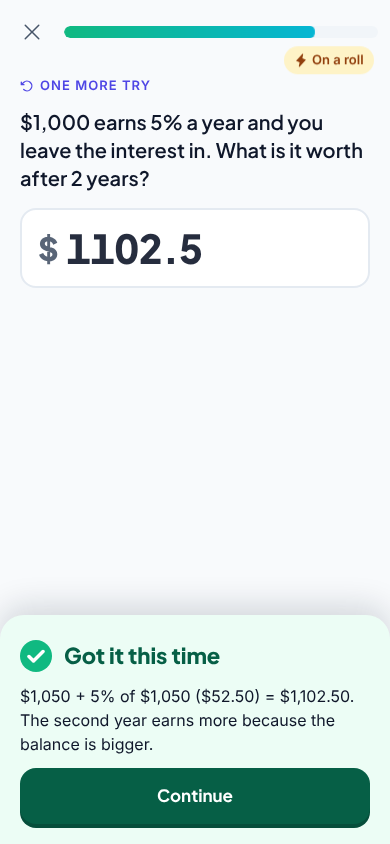
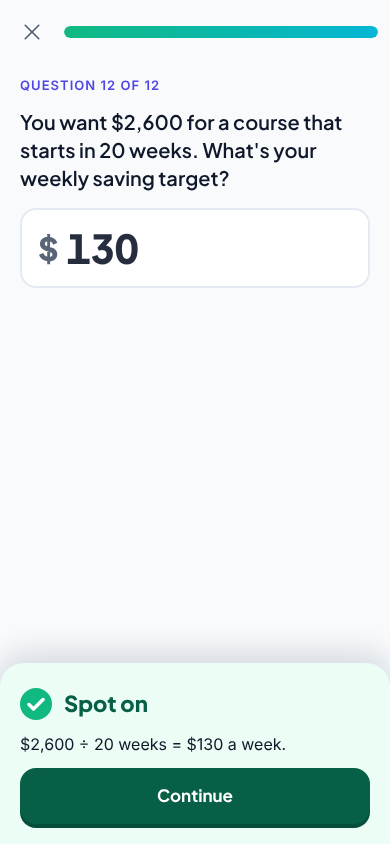
Persona round 1: scores, plans, findings; fixes for F1-F9 (pay cycles, needs>50%, life-stage examples, retry order, honest copy, what's-next note, onboarding chips)
Claude-Session: https://claude.ai/code/session_01GBYcwNNV3dNhspR98EHqQR

diff --git a/tests/unit/content.test.ts b/tests/unit/content.test.ts
@@ -51,3 +51,23 @@ describe('ics reminder input safety', () => {
     expect(ics).toContain('SUMMARY:After my morning coffee\\, I do my Tally lesson');
   });
 });
+
+import { readFileSync } from 'node:fs';
+describe('examples reflect more than one life stage', () => {
+  const all = [1, 2, 3, 4, 5, 6, 7, 8].map((i) => readFileSync(`content/unit1/1.${i}.json`, 'utf8')).join('\n');
+  it.each([
+    ['a teenager on pocket money or a first job', /pocket money|, 16,|Under 18/],
+    ['a uni student', /uni student|At uni|HECS-HELP/],
+    ['a nurse or shift worker', /nurse|Shifts vary/],
+    ['a parent', /single parent|kids' costs/],
+    ['a home deposit goal', /home deposit/],
+  ])('has %s', (_label, re) => {
+    expect(all).toMatch(re as RegExp);
+  });
+  it('teaches weekly and fortnightly pay to a month with 52 and 26, not x4', () => {
+    const l = JSON.parse(readFileSync('content/unit1/1.4.json', 'utf8'));
+    const body = JSON.stringify(l.screens);
+    expect(body).toMatch(/Multiply weekly pay by 52, or fortnightly pay by 26, then divide by 12/);
+    expect(body).toMatch(/trim wants first and still save something/);
+  });
+});

diff --git a/src/screens/Onboarding.tsx b/src/screens/Onboarding.tsx
@@ -27,7 +27,7 @@ const GOALS = [
   { id: 'invest', icon: 'ChartLineUp', title: 'Start investing' },
   { id: 'pro', icon: 'Buildings', title: 'Go deeper (pro finance)' },
 ];
-const CUES = ['my morning coffee', 'I sit on the train', 'lunch', 'I brush my teeth tonight'];
+const CUES = ['my morning coffee', 'I get on the bus or train', 'lunch', 'I get home', 'the kids are in bed', 'I brush my teeth tonight'];
 
 export function Onboarding() {
   const [step, setStep] = useState(0);
@@ -82,7 +82,7 @@ export function Onboarding() {
           </div>
           {checked ? (
             <div className={`inline-fb ${isCorrect(FIRST, a) ? 'fb-right' : 'fb-wrong'}`} role="status">
-              <strong>{isCorrect(FIRST, a) ? 'Correct! +5 XP' : 'Not quite — less'}</strong>
+              <strong>{isCorrect(FIRST, a) ? 'Correct! +5 XP' : 'Not quite: it buys less'}</strong>
               <p>{FIRST.explanation}</p>
             </div>
           ) : null}

diff --git a/docs/persona-review.md b/docs/persona-review.md
@@ -1,0 +1,194 @@
+# Persona review
+
+Five learners (Emma 16, Jake 20, Olivia 24, Liam 28, Sarah 35) play Unit 1 of Tally end to end and score it on `docs/review-scorecard.md`. Rounds are logged newest last.
+
+**How a round is played.** `scripts/persona-playtest.py` (built on the `webapp-testing` skill) drives the **built** app at 390×844 from **cleared storage**, with CPU throttled 4× and a slow-4G network (a mid-range phone), on a faked clock across several days. Each persona has their own onboarding choices (goal, level, daily target, habit cue and time, theme), their own mistakes, and their own life: missed days (streak repair), an interrupted lesson, an offline reload, and a failed-then-passed unit check. The harness prints every screen's text to a transcript and takes screenshots; every console error, page error and failed request is recorded. The persona's plan below is written from what the transcript taught, then the app is scored.
+
+Evidence lives in `docs/persona-evidence/round-N/` (screenshots plus a `<persona>.json` of measured facts). Transcripts are regenerated by the harness (`test-results/persona/<persona>.md`, not committed).
+
+Severity: **blocker** (progress lost, blank screen, flow impossible) / **major** (a persona can't do something the lesson promises, or is misled) / **minor**.
+
+---
+
+## Round 1 (baseline: the app as it stood after the validation passes)
+
+Built from commit `6ed0d74` (Unit 1 complete, validation passes 1 and 2). Played 24–29 Nov 2026 (fake clock), cleared storage each time.
+
+### Scores
+
+| Category (max) | Emma 16 | Jake 20 | Olivia 24 | Liam 28 | Sarah 35 |
+| --- | --- | --- | --- | --- | --- |
+| Educational value (20) | 13 | 14 | 15 | 14 | 14 |
+| Content accuracy & quality (15) | 11 | 12 | 13 | 12 | 12 |
+| UX & navigation (15) | 12 | 12 | 12 | 12 | 12 |
+| Functionality & reliability (15) | 14 | 14 | 14 | 14 | 14 |
+| Engagement & interactivity (10) | 7 | 8 | 8 | 8 | 8 |
+| Accessibility & inclusivity (10) | 8 | 8 | 8 | 8 | 7 |
+| Visual design (5) | 4 | 4 | 4 | 4 | 4 |
+| Performance (5) | 4 | 4 | 4 | 4 | 4 |
+| Privacy & security (5) | 5 | 5 | 5 | 5 | 5 |
+| **Total (100)** | **78** | **81** | **83** | **81** | **80** |
+| Band | Good | Excellent | Excellent | Excellent | Excellent |
+
+Result: **fails the bar.** Educational value is under 16 for every persona, and Emma is under 80 overall. The totals look fine mainly because the app is stable and good-looking; the gap is in what each persona could do with their own money.
+
+### Measured facts (from `docs/persona-evidence/round-1/*.json`)
+
+| | Emma | Jake | Olivia | Liam | Sarah |
+| --- | --- | --- | --- | --- | --- |
+| Finished Unit 1 + unit check | yes (2 attempts) | yes (2) | yes (2) | yes (2) | yes (2) |
+| Unit 2 unlocked at the end | yes | yes | yes | yes | yes |
+| XP / streak at the end | 656 / 5 | 712 / 6 | 734 / 6 | 710 / 4 | 715 / 7 (1 freeze earned) |
+| Wrong answers (each retried) | 45 | 30 | 25 | 20 | 36 |
+| First screen, cold, throttled 4× CPU + slow 4G | 1.64 s | 1.64 s | 1.71 s | 1.62 s | 1.62 s |
+| Screen change, median / p95 | 112 / 161 ms | 104 / 161 ms | 114 / 151 ms | 107 / 144 ms | 113 / 167 ms |
+| Reminder (.ics) downloaded, daily, right time and cue | yes | yes | declined | yes | yes |
+| Progress after every reload | kept | kept | kept | kept | kept |
+| Offline reload | n/a | ok (day 4) | n/a | ok (day 2) | n/a |
+| App errors in console | 0 | 0 | 0 | 0 | 0 |
+| Console "problems" logged | 2 | 2 | 1 | 1 | 1 |
+
+The logged "problems" are all `favicon.svg net::ERR_ABORTED`: the harness reloads the page while the previous page's favicon request is still in flight, which cancels it. That is harness noise, not an app fault (the validation sweep proves it by waiting for network idle first). The harness now waits for the network to settle before each reload and filters this one case.
+
+### Emma, 16: pocket money and a weekend café job
+
+Played: no coffee habit, so typed "I get home from school", 16:30, 5-minute goal; got the first question wrong on purpose; guessed on numbers; many mistakes (45).
+
+**Strengths**
+- The first screen asks a real question before anything else (`emma-welcome.png`, first question screen). She liked that being wrong cost nothing: "Not quite … Your $1,000 is still $1,000, but things cost about 5% more".
+- Feedback after every answer says why. Her wrong "Priya's $15 × 52" answer returned with "$15 × 52 = $780 a year. Seeing the yearly total makes it easier to decide if it's worth it."
+- A hint opens on request ("Multiply the weekly amount by 52."), and a missed question comes back in the same lesson ("ONE MORE TRY").
+- The calendar reminder downloaded with her words: `After I get home from school, I do my Tally lesson`, daily, 16:30.
+
+**Weaknesses**
+- Almost nothing is her life. The examples are an adult employee: "Should I keep my savings in a bank or pay down my car loan?" (lesson 1.1 try-it), super, HECS-HELP, a $60,000 payslip, rent. There is no pocket money and no first job.
+- The apply screens assume a payslip and a banking app: "Open your last payslip or banking app" (1.4). She has neither.
+- She budgets weekly ($40 + $90 a fortnight) but the only conversions taught are monthly; she can't tell whether her fortnightly café pay is "$180 a month" or something else. (F1)
+- The habit chips are for commuters ("I sit on the train", "my morning coffee"). (F9)
+- "Not quite — less" reads as a typo on her very first screen. (F9)
+
+**Recommendations**: add teen and student examples; say what to do with irregular casual pay; a short "your first job and tax" idea belongs in Unit 4 (noted, not marked down).
+
+**Real-life plan (from what the app taught)**
+- Income per week: $40 pocket money + $90 ÷ 2 per week = **$85** (she can do per-week maths because Omar's fortnightly example showed the method works for any pay cycle).
+- Budget (lesson 1.4, but not 50/30/20, because her parents cover housing): needs $25 (phone $12, bus $8, school $5) · wants $30 · savings $30 = **$85**. She noticed that her savings share (35%) is well above the 20% rule and that's fine because needs are small.
+- Goal (1.8): $680 for a laptop in 40 weeks → $680 ÷ 40 = **$17 a week**, so $30 a week gets there in **23 weeks** ($680 ÷ $30 = 22.7).
+- Emergency fund (1.6): needs $25 a week × 52 ÷ 12 = $108 a month essentials; 1 month = **$108**.
+- This week: write down this week's $85 and set a $30 transfer after the café shift.
+- **Steps she could not do:** the $108 monthly essentials need weekly → monthly (×52 ÷ 12), which no lesson taught (she tried ×4 = $100, about 8% low, and couldn't tell which was right). Should be taught in **1.4**. She could not see whether casual pay is "take-home" (tax-free threshold: Unit 4).
+
+### Jake, 20: uni student, shared house at $240 a week, casual hospitality
+
+Played: "I finish my first lecture", 10:15, "I know the basics", 10-minute goal; missed Thursday and came back Friday; reloaded offline on day 4.
+
+**Strengths**
+- The forgiving streak worked as designed: Friday's Home said "Repair your streak today … You missed yesterday. Finish 2 sessions today and your 2-day streak carries on."; he did a review plus two lessons and the streak was 4 on Saturday.
+- The unit check gave a useful next step when he failed: it scored him "50% — nearly there", listed the weak lessons (1.1, 1.2, 1.3, 1.7) and offered "Try the check again" (`jake-check-retry.png`); he passed on the second try.
+- Offline reload worked: Home loaded and a lesson ran with no network (`jake` offline day).
+- Net worth with HECS-HELP as a liability (1.2) felt like his life: "Tap the liability on Ben's list … HECS-HELP debt $18,500."
+
+**Weaknesses**
+- Rent is weekly. Every worked example is monthly, and weekly → monthly is never taught (the only pay-cycle example is one fortnightly 20% question). (F1)
+- His needs are 70% of his pay. The lesson says "in a pricey rental market, needs often run higher" but not what to do about it. (F2)
+- Casual shifts vary week to week; irregular pay is only mentioned for an emergency fund (Ravi, freelancer).
+- "I know the basics" promises nothing now (fixed copy in validation) but still just shows the same Unit 1; no way to test out. (F10, won't-fix)
+
+**Recommendations**: a short note on varying pay; a student-style budget example; HECS-HELP repayment belongs to Unit 3.
+
+**Real-life plan (from what the app taught)**
+- Take-home **$560 a week**. Needs (1.4 list): rent $240 + groceries $85 + transport $30 + phone $15 + study costs $25 = **$395 (70.5%)**. Wants $80. Savings **$85** (15%).
+- He used the zero-based method (every dollar a job) because 50/30/20 doesn't fit when rent is this big: $560 = $395 + $80 + $85. ✔
+- Emergency fund (1.6): essentials $395 a week × 52 ÷ 12 = $1,711.67 a month, so 3 months = **$5,135**. At $50 a week that is 103 weeks, so his first milestone is **one month ($1,712)**, about 34 weeks.
+- Goal (1.8): laptop $1,400 in 28 weeks = **$50 a week**; he can't afford it alongside the emergency fund yet, so he picks the fund first (from lesson 1.8 "starter buffer first").
+- This week: move $50 on payday into a separate savings account.
+- **Steps he could not do:** converting $395 a week to a month (without ×52 ÷ 12 he used ×4 = $1,580, so the 3-month target came out at $4,740: **$395 short**); knowing what to do when needs > 50%; budgeting casual pay. Should be taught in **1.4**.
+
+### Olivia, 24: graduate nurse, rotating shifts, $72,000
+
+Played: no habit anchor (after a late shift, 22:00), dark mode, declined the calendar reminder (shift times change), interrupted one lesson on a night shift.
+
+**Strengths**
+- The payslip lesson is the closest to her life: "Worked example: Lena's payslip … Tax withheld (PAYG) −$802.00 … Employer super (to fund) $600.00 … Net pay $4,198.00", and the tap-the-line question: "Tap the line that belongs to Lena but never reaches her bank account."
+- Dark mode was consistent on every screen (`olivia-recap.png`), and she could decline the reminder without being nagged.
+- Leaving mid-lesson asks first ("Take a break? … Keep going / Leave for now") and saved progress was untouched.
+
+**Weaknesses**
+- The leave dialog says "You can pick this up again any time", but the lesson restarts from screen 1, so "pick up" over-promises. (F8)
+- Her payslip has shift allowances and penalty rates the example doesn't show, and she can't check her own tax or super here (Unit 4 and Unit 5: noted, not marked down).
+- Rotating shifts mean a fixed "after ___, I do my lesson" doesn't fit; the app has no "flexible" option. (recommendation)
+
+**Recommendations**: a "my payslip has more lines" note in Unit 4.2; shift workers' variable pay; an "any time" habit option.
+
+**Real-life plan (from what the app taught)**
+- Take-home read from her own payslip: **$2,250 a fortnight**. Needs $1,250 (rent $800, groceries $200, car $140, phone and streaming $50, uniform and health $60) = 55.6%; wants $450 (20%); savings **$550** (24.4%).
+- Emergency fund: essentials **$1,250 a fortnight × 26 ÷ 12 = $2,708 a month**, 3 months = **$8,125** (about 30 weeks of saving $550 a fortnight).
+- Goal: a $4,200 holiday in 52 weeks = **$81 a week** (about $162 a fortnight).
+- This week: check her last payslip's super line against 12% (she can only check that the line exists; the 12% rule is Unit 5).
+- **Steps she could not do:** fortnight → month (she used ×2 = $2,500 a month, so a 3-month fund of **$7,500, which is $625 short**). Should be taught in **1.4**. Reading her payslip's extra lines: **4.2**.
+
+### Liam, 28: software tester, $95,000, $18,000 saved, $9,000 car loan, first home in 3 years
+
+Played: "I sit down on the train", 07:40, "Start investing", "I know the basics", 15-minute goal, three lessons a day; offline reload on day 2.
+
+**Strengths**
+- The offset account lesson (1.7) is exactly his problem: "Loan $500,000 − offset $30,000 = interest charged on $470,000 … Interest saved ≈ $1,800 a year".
+- The Financial Claims Scheme point reassured him about $18,000 in savings: "Deposits … protected up to $250,000 per account holder, per bank."
+- The recap stat tiles and the "You learned" bullets gave a clear end to each lesson (`liam-recap.png`).
+
+**Weaknesses**
+- The SMART-goal examples are a holiday, an e-bike and "Tom moving out"; none is a home deposit, the one goal he has. (F3)
+- His car loan sits in "savings and extra debt repayments", but there is no help deciding between paying it down and saving a deposit (that is Unit 3 and Unit 6: recommendation).
+- Weekly vs monthly again: a deposit goal in weeks needs a monthly transfer figure. (F1)
+
+**Recommendations**: a deposit example in 1.8; LMI, the First Home Guarantee and Queensland duty belong to Unit 8 (the app says "lessons coming soon" honestly).
+
+**Real-life plan (from what the app taught)**
+- Take-home $5,900 a month (payslip). Needs $3,400 (rent share $1,900, groceries $500, transport $350, car loan $420, bills $230) = 57.6%; wants $1,300 (22%); savings and debt $1,200 (20.3%).
+- Emergency fund: 3 × $3,400 = **$10,200**, kept in a separate savings account. That leaves **$7,800** of his $18,000 for the deposit.
+- Deposit goal: **$62,400 in 3 years (156 weeks)** → ($62,400 − $7,800) ÷ 156 = **$350 a week** (about $1,517 a month).
+- Check: $1,200 a month saved is less than $1,517, so he shortens the plan: trim wants by about $317 a month, or extend the date. This used 1.4's "trim wants first" idea, which the baseline app did not state. (F2)
+- **Steps he could not do:** weekly target → monthly transfer (×52 ÷ 12, **1.4**); what a deposit should be or whether to pay the car loan first (Unit 3 and Unit 8).
+
+### Sarah, 35: single parent of two, $62,000 part-time plus child support, rent $2,000 a month, $2,400 card debt
+
+Played: "the kids are in bed", 20:30, "Stop worrying about debt", 5-minute goal; missed two evenings; interrupted a lesson.
+
+**Strengths**
+- No guilt anywhere. When she missed a day, Home said "Repair your streak today … You missed yesterday", never anything like "your streak is dying" (Sarah's Home on her second lesson day). A 5-minute goal fits real life.
+- The emergency fund lesson names the exact idea she needs: "Size your emergency fund using your essential expenses, not everything you spend", and "First milestone: $1,000, so small shocks are covered sooner".
+- Review cards came back at spaced gaps and the 2-minute practice counted for her streak on a hard evening.
+
+**Weaknesses**
+- Nothing in the lessons is a household with children: no kids' costs, no child support, no single income. (F3)
+- Her needs are 82% of her pay. The 50/30/20 split can't apply and the lesson doesn't say how to adapt. (F2)
+- The emergency fund target (3 months) is $10,530 for her, with no guidance on a realistic first step beyond one example line. (F1/F2)
+- "Finish 2 sessions today" is app-speak: she wondered if one lesson plus one review counts. (F6)
+- The apply screen says "Planned — we'll ask how it went", but nothing ever asks. (F5)
+
+**Recommendations**: a parent example; debt vs savings priority (Unit 3); a "tight budget" path for the emergency fund.
+
+**Real-life plan (from what the app taught)**
+- Take-home **$4,300 a month**. Needs $3,510 (rent $2,000, groceries $620, kids' costs and school $260, transport $180, bills $300, phone and other $150) = **81.6%**. Left $790: wants $250 and **$540** for savings and card.
+- Emergency fund: 3 months = **$10,530** (not achievable soon) → first milestone **one month ($3,510)**; $300 a month = **$69 a week** automatic transfer to a separate savings account.
+- Card: the $240 a month left goes on the $2,400 card (the app says extra debt repayment belongs in the 20% bucket).
+- This week: write down the $3,510 of essentials and open a separate savings account.
+- **Steps she could not do:** whether the card or the buffer comes first (Unit 3 will teach good and bad debt and paying off debt); adapting 50/30/20 when needs are 80%+ (**1.4**).
+
+### Findings
+
+| # | Sev | Personas | Where | Evidence | Status |
+| --- | --- | --- | --- | --- | --- |
+| F1 | major | all five | Lesson 1.4 | Weekly and fortnightly pay to monthly is never taught. Jake's 3-month fund came out $395 short (×4), Olivia's $625 short (×2); Emma and Liam couldn't convert at all. | **Fixed.** New teach screen "Paid weekly or fortnightly?" (×52 or ×26, then ÷ 12), guided question `u1l4-g-4` (Jake's $420 a week), review variant `u1l4-r-4`. Tests: `usability.spec.ts › the pay-cycle question teaches weekly pay x 52 / 12, not x 4`; `content.test.ts › teaches weekly and fortnightly pay to a month…` |
+| F2 | major | Jake, Liam, Sarah (Emma) | Lesson 1.4 | Needs of 70–82% of pay; the lesson says "needs often run higher" but not what to do. | **Fixed.** Core screen now says "If rent pushes needs to 60% or more, trim wants first and still save something." Test: `content.test.ts › … trim wants first and still save something` |
+| F3 | major | all five | Whole of Unit 1 | Examples are single adult employees; no teen, student, parent, nurse or home-deposit example; apply screens assume a payslip ("Open your last payslip or banking app"). | **Fixed.** Examples now include a nurse (Aisha, Lena), a uni student (Ben, Jake), a single parent (Maya, kids' costs), a 16-year-old saver (Zac, pocket money), a couple saving a $39,000 deposit; apply screens speak to pocket money, HECS-HELP, shifts, kids' costs. Test: `content.test.ts › examples reflect more than one life stage` (5 cases). |
+| F4 | major | all five (every lesson with a miss) | Lesson session | A missed question was re-queued after the "Your money" screen, so lessons ended on a re-asked question instead of apply then recap (`emma.md` lesson 1.1 screen 17 "ONE MORE TRY" after "YOUR MONEY"). | **Fixed.** `retryPosition` keeps retries before the apply screen. Tests: `session.test.ts` (4; two fail without the fix), `usability.spec.ts › a missed question comes back before the "Your money" screen…` |
+| F5 | minor | all five | Apply screen | "Planned — we'll ask how it went": nothing ever asks. | **Fixed.** "Saved. Tick it off in Profile once you've done it". Test: `usability.spec.ts › apply screen promises only what the app does` |
+| F6 | minor | Jake, Sarah, Liam | Home streak repair | "Finish 2 sessions today": jargon. | **Fixed.** "Do 2 lessons or reviews today …" |
+| F7 | minor | all five | Home after Unit 1 | After the unit, Home offered only "2-minute practice"; "what now?" unclear. | **Fixed.** `all-done` note: "You've done every lesson that's ready. More units are being written; until then, reviews keep what you learned fresh." Test: `usability.spec.ts › when every ready lesson is done, Home says so…` |
+| F8 | minor | Olivia, Sarah | Leave dialog | "You can pick this up again any time": it restarts the lesson. | **Fixed.** "You can start it again any time. Answers from this round won't be saved." |
+| F9 | minor | Emma, Sarah | Onboarding | Habit chips fit commuters only; "Not quite — less". | **Fixed.** Chips add "I get home" and "the kids are in bed"; "Not quite: it buys less". |
+| F10 | minor | Jake, Liam | Onboarding level | "I know the basics" has no placement check. | **Won't fix**: a placement test is a new feature (out of scope). The copy no longer promises one. |
+| F11 | minor | Olivia, Sarah | Mid-lesson | Leaving restarts a lesson from screen 1. | **Won't fix**: resuming is a new feature; lessons are about 5 minutes and leaving asks first. Saved progress is unaffected. |
+| F12 | minor | Olivia, Liam, Sarah, Emma | Topics | Tax on casual pay, payslip allowances, super checks, car loan vs deposit, investing, home loans. | **Recommendation**, not marked down: they belong to Units 3, 4, 5, 6 and 8, and Home says honestly "Unlocked · lessons coming soon". |
+| F13 | minor | all five | Harness | `favicon.svg ERR_ABORTED` from reloading mid-request. | **Fixed in the harness** (waits for network idle; filters this single case). Not an app fault. |
+| F14 | minor | Emma, Jake | Review tab | "Up to 8 a day — 16 more wait for tomorrow" can feel like a growing backlog. | **Won't fix**: the 8-a-day cap is research-backed (`docs/learning-research.md`); the wording already says they're saved so they stay spaced out. Watch in later rounds. |
